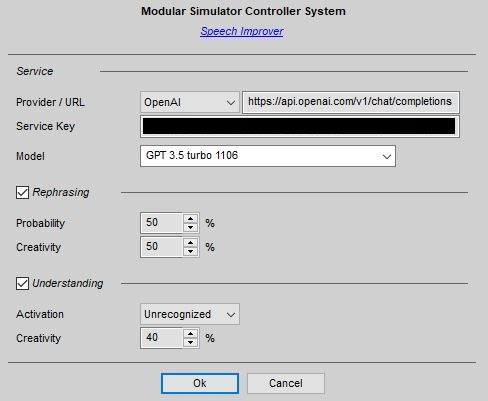
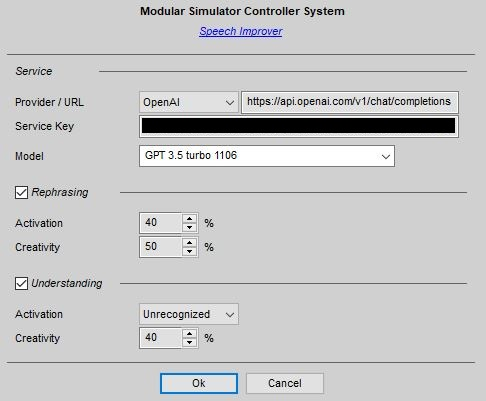
Recognition improver Part 12

diff --git a/Docs/Installation & Configuration.md b/Docs/Installation & Configuration.md
@@ -384,7 +384,7 @@ Please take a look at the documentation for the [Driving Coach](https://github.c
 
 Two type of improvements are available at the moment:
 
-  1. More variations in the speech output of the Assistants will be created, if *Rephrasing* is activated. This is done by using a GPT to rephrase one of the pre-defined phrases. The *Probabilty* setting defines, how often the rephrasing is done and using the *Creativity* setting, you can define, how *strong* the rephrasing will be. According to my tests, a value of 50% will create some intersting variation without altering the original sense of the message. Please note, that there are messages, especially the urgent alerts of the Spotter, which are time-critical. Those messages will never be send to the AI for rephrasing.
+  1. More variations in the speech output of the Assistants will be created, if *Rephrasing* is activated. This is done by using a GPT to rephrase one of the pre-defined phrases. The *Activation* setting defines the probability, with which the rephrasing happens (and thereby how many calls to the GPT service will be done) and using the *Creativity* setting, you can define, how *strong* the rephrasing will be. According to my tests, a value of 50% will create some intersting variation without altering the original sense of the message. Please note, that there are messages, especially the urgent alerts of the Spotter, which are time-critical. Those messages will never be send to the AI for rephrasing.
 
   2. If *Understanding* is activated, a GPT is used to semantically analyze your voice commands and match them to any of the pattern-bassed commands defined by the Assistants. This allows you to formulate your commands in any way you like, as long as the meaning the same as for the predefined command. Here is an example:
 	
